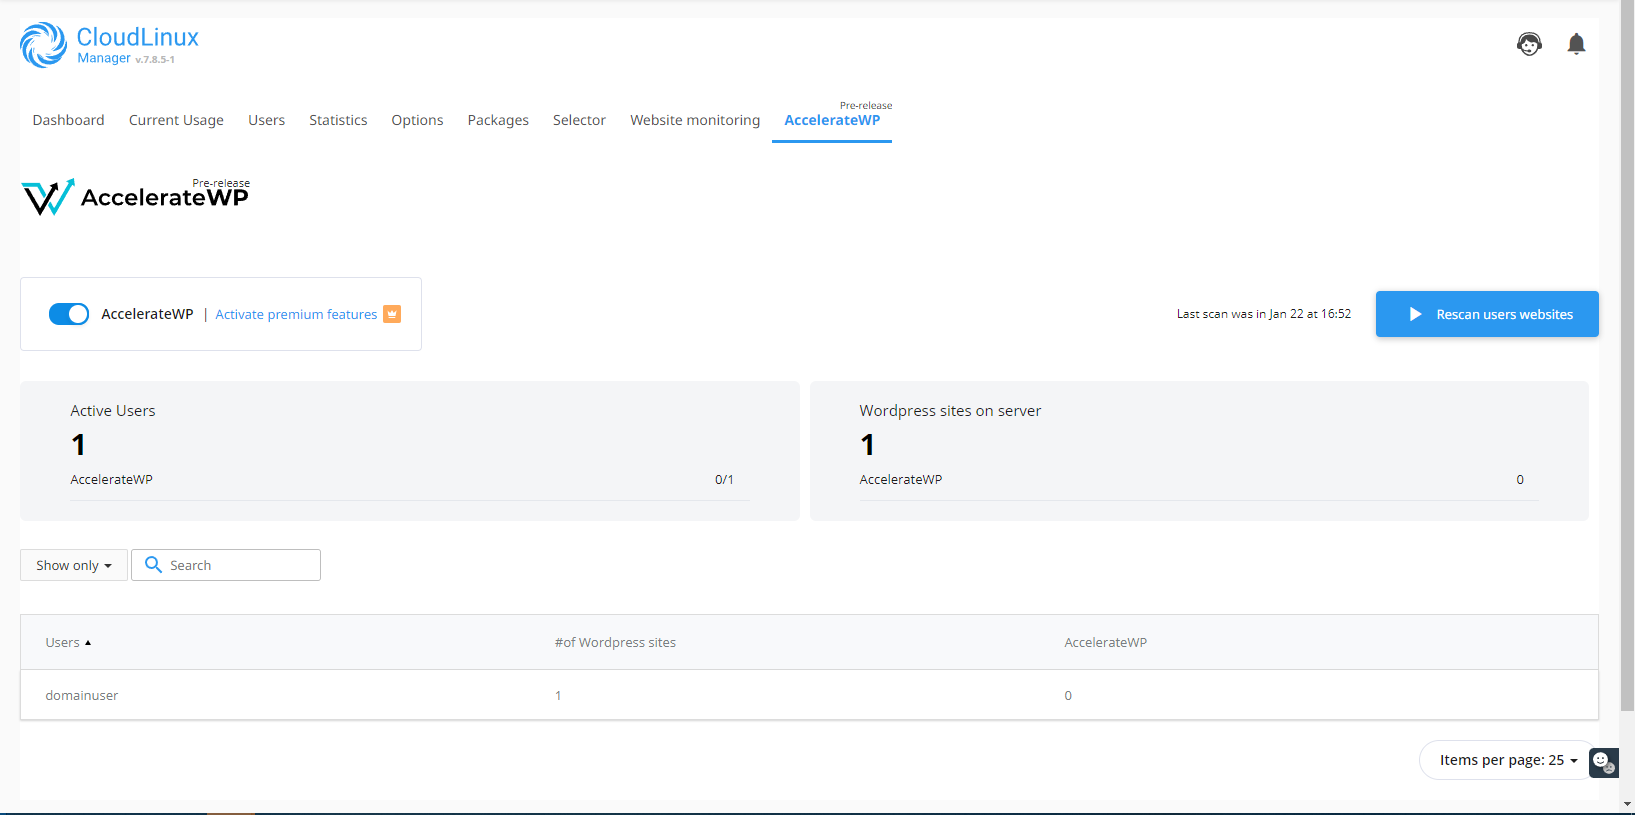
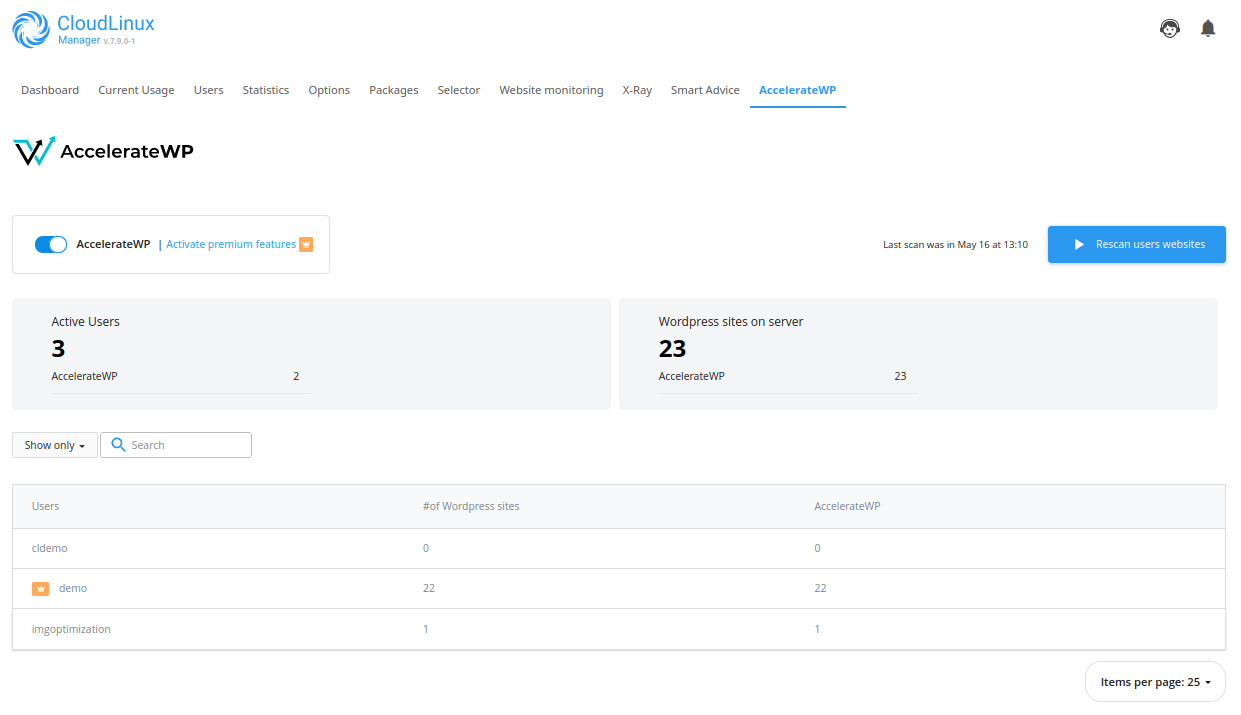
TCR-202 copy to new engine

diff --git a/docs/shared-pro/accelerate-wp/README.md b/docs/shared-pro/accelerate-wp/README.md
@@ -90,6 +90,10 @@ The first column `#of Wordpress sites` shows total number of user's WordPress si
 
 The second column `AccelerateWP` shows number of user's WordPress sites, optimized by the feature.
 
+To enable premium features, click on the "Activate premium features" link and select the options you want. To integrate functions with billing, you must specify the base URL for the purchase of the function by end users.
+
+![](./images/awp/AWPPremiumManage.png)
+
 In case if both AccelerateWP and AccelerateWP Premium feature suites are enabled, 
 the statistics is extended with AccelerateWP Premium metrics.
 
@@ -111,6 +115,8 @@ You may use the following filters to browse AccelerateWP statistics slices.
 * `Users with WordPress sites only` filter will show statistics for users which already have WordPress sites; users without WordPress installations will be hidden
 * `Users with AccelerateWP only` filter will show statistics for users who utilizes the AccelerateWP optimization feature; users who did not activated AccelerateWP feature will be hidden
 * `Users with AccelerateWP Premium only` filter will show statistics for users who utilizes AccelerateWP Premium (Object Caching) feature; users who did not activated AccelerateWP Premium feature will be hidden
+* `Users with CDN Free only` filter will show statistics for users who utilizes AccelerateWP CDN feature
+* `Users with CDN Pro only` filter will show statistics for users who utilize AccelerateWP CDN Pro feature
 
 
 ## Activate free AccelerateWP for all WordPress sites on the server
@@ -143,6 +149,18 @@ were initially for the scan, a number of WordPress sites with
 successfully activated suite, and the total number of WordPress sites
 scanned.
 
+### Enable AccelerateWP CDN Pro
+
+To enable CDN Pro for all users:
+```
+cloudlinux-awp-admin set-suite --suites accelerate_wp_cdn_pro --users all --allowed-for-all
+```
+
+To enable CDN Pro for a particular user:
+```
+cloudlinux-awp-admin set-suite --suites accelerate_wp_cdn_pro --allowed --users=<username>
+```
+
 ## Disable AccelerateWP for a particular user
 Use CLI commands to disable undesired optimization suites for a single user.
 
@@ -156,9 +174,19 @@ To disable AccelerateWP Premium suite:
 cloudlinux-awp-admin set-suite --suites=accelerate_wp_premium --disallowed --users=<username>
 ```
 
-To disable both suites:
+To disable AccelerateWP CDN suite:
 ```
-cloudlinux-awp-admin set-suite --suites=accelerate_wp,accelerate_wp_premium --disallowed --users=<username>
+cloudlinux-awp-admin set-suite --suite=accelerate_wp_cdn --disallowed --users=<username>
+```
+
+To disable AccelerateWP CDN Pro suite:
+```
+cloudlinux-awp-admin set-suite --suite=accelerate_wp_cdn_pro --disallowed --users=<username>
+```
+
+To disable all suites:
+```
+cloudlinux-awp-admin set-suite --suites=accelerate_wp,accelerate_wp_premium,accelerate_wp_cdn,accelerate_wp_cdn_pro --disallowed --users=<username>
 ```
 
 ## Useful AccelerateWP CLI commands

diff --git a/docs/user-docs/user-docs-solo-cloudlinux/README.md b/docs/user-docs/user-docs-solo-cloudlinux/README.md
@@ -371,19 +371,25 @@ If your site uses the WebP plugin you can activate AccelerateWP WebP Compatibili
 
 
 #### CDN
+
+
+:::tip Note
+When using AccelerateWP CDN, then the enabling/disabling can only be done in the hosting panel in the AccelerateWP interface.
+:::
+
+Enabling AccelerateWP Content Delivery Network using Advice will automatically set up your AccelerateWP WordPress plugin.
+
+![](./images/AWPCDNEnabled.png)
+
 CDN stands for Content Delivery Network, the feature that simplifies and speeds up resources loading for your customers.
 
-In order to start using CDN, you need:
+In order to start using 3rd party CDN, you need:
 1. Public website on the Internet with a valid domain name
-2. Pull a CDN zone, for example, https://bunny.net/
+2. PullZone of CDN
 
 To set up a CDN in the AccelerateWP you must register CDN zone and get pull zone configuration.
 
-After setting up the Pull zone, you will receive an address, for example: domain.b-cdn.net
-
-![](./images/CDNGeneral.png)
-
-Go to the WP Admin of your WordPress site, open the settings of the AccelerateWP (Step 1) and select the CDN section (Step 2).  Select the option: Enable Content Delivery Network (Step 3) and fill in the "CDN CNAME(s)" field with the previously received domain.b-cdn.net address (Step 4).
+Go to the WP Admin of your WordPress site, open the settings of the AccelerateWP (Step 1) and select the CDN section (Step 2). Select the option: Enable Content Delivery Network (Step 3) and fill in the "CDN CNAME(s)" field with CDN pull zone address (Step 4).
 
 ![](./images/CDNFlow.png)
 

diff --git a/docs/user-docs/user-docs-shared-cloudlinux/README.md b/docs/user-docs/user-docs-shared-cloudlinux/README.md
@@ -399,19 +399,24 @@ If your site uses the WebP plugin you can activate AccelerateWP WebP Compatibili
 
 
 #### CDN
+
+:::tip Note
+When using AccelerateWP CDN, then the enabling/disabling can only be done in the hosting panel in the AccelerateWP interface.
+:::
+
+Enabling AccelerateWP Content Delivery Network using Advice will automatically set up your AccelerateWP WordPress plugin.
+
+![](./images/AWPCDNEnabled.png)
+
 CDN stands for Content Delivery Network, the feature that simplifies and speeds up resources loading for your customers.
 
-In order to start using CDN, you need:
+In order to start using 3rd party CDN, you need:
 1. Public website on the Internet with a valid domain name
-2. Pull a CDN zone, for example, https://bunny.net/
+2. PullZone of CDN
 
 To set up a CDN in the AccelerateWP you must register CDN zone and get pull zone configuration.
 
-After setting up the Pull zone, you will receive an address, for example: domain.b-cdn.net
-
-![](./images/CDNGeneral.png)
-
-Go to the WP Admin of your WordPress site, open the settings of the AccelerateWP (Step 1) and select the CDN section (Step 2).  Select the option: Enable Content Delivery Network (Step 3) and fill in the "CDN CNAME(s)" field with the previously received domain.b-cdn.net address (Step 4).
+Go to the WP Admin of your WordPress site, open the settings of the AccelerateWP (Step 1) and select the CDN section (Step 2). Select the option: Enable Content Delivery Network (Step 3) and fill in the "CDN CNAME(s)" field with CDN pull zone address (Step 4).
 
 ![](./images/CDNFlow.png)
 
